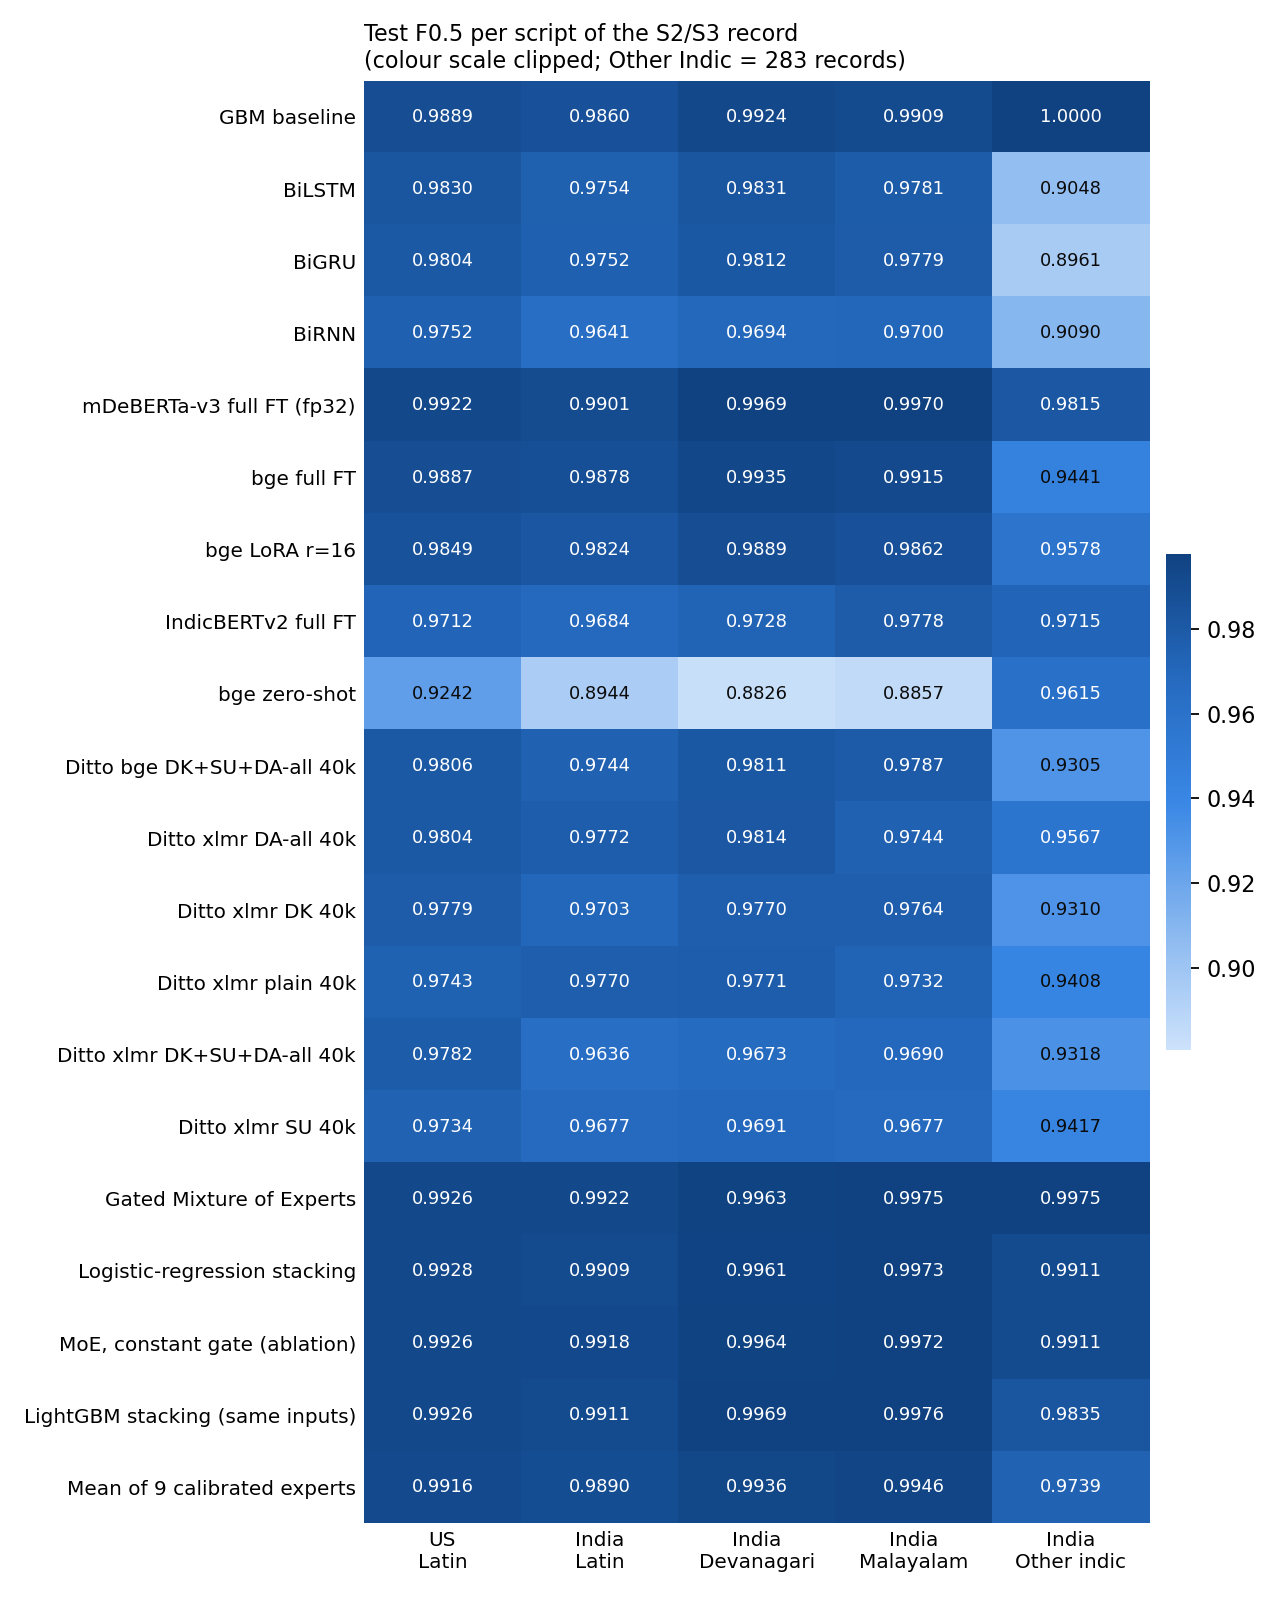
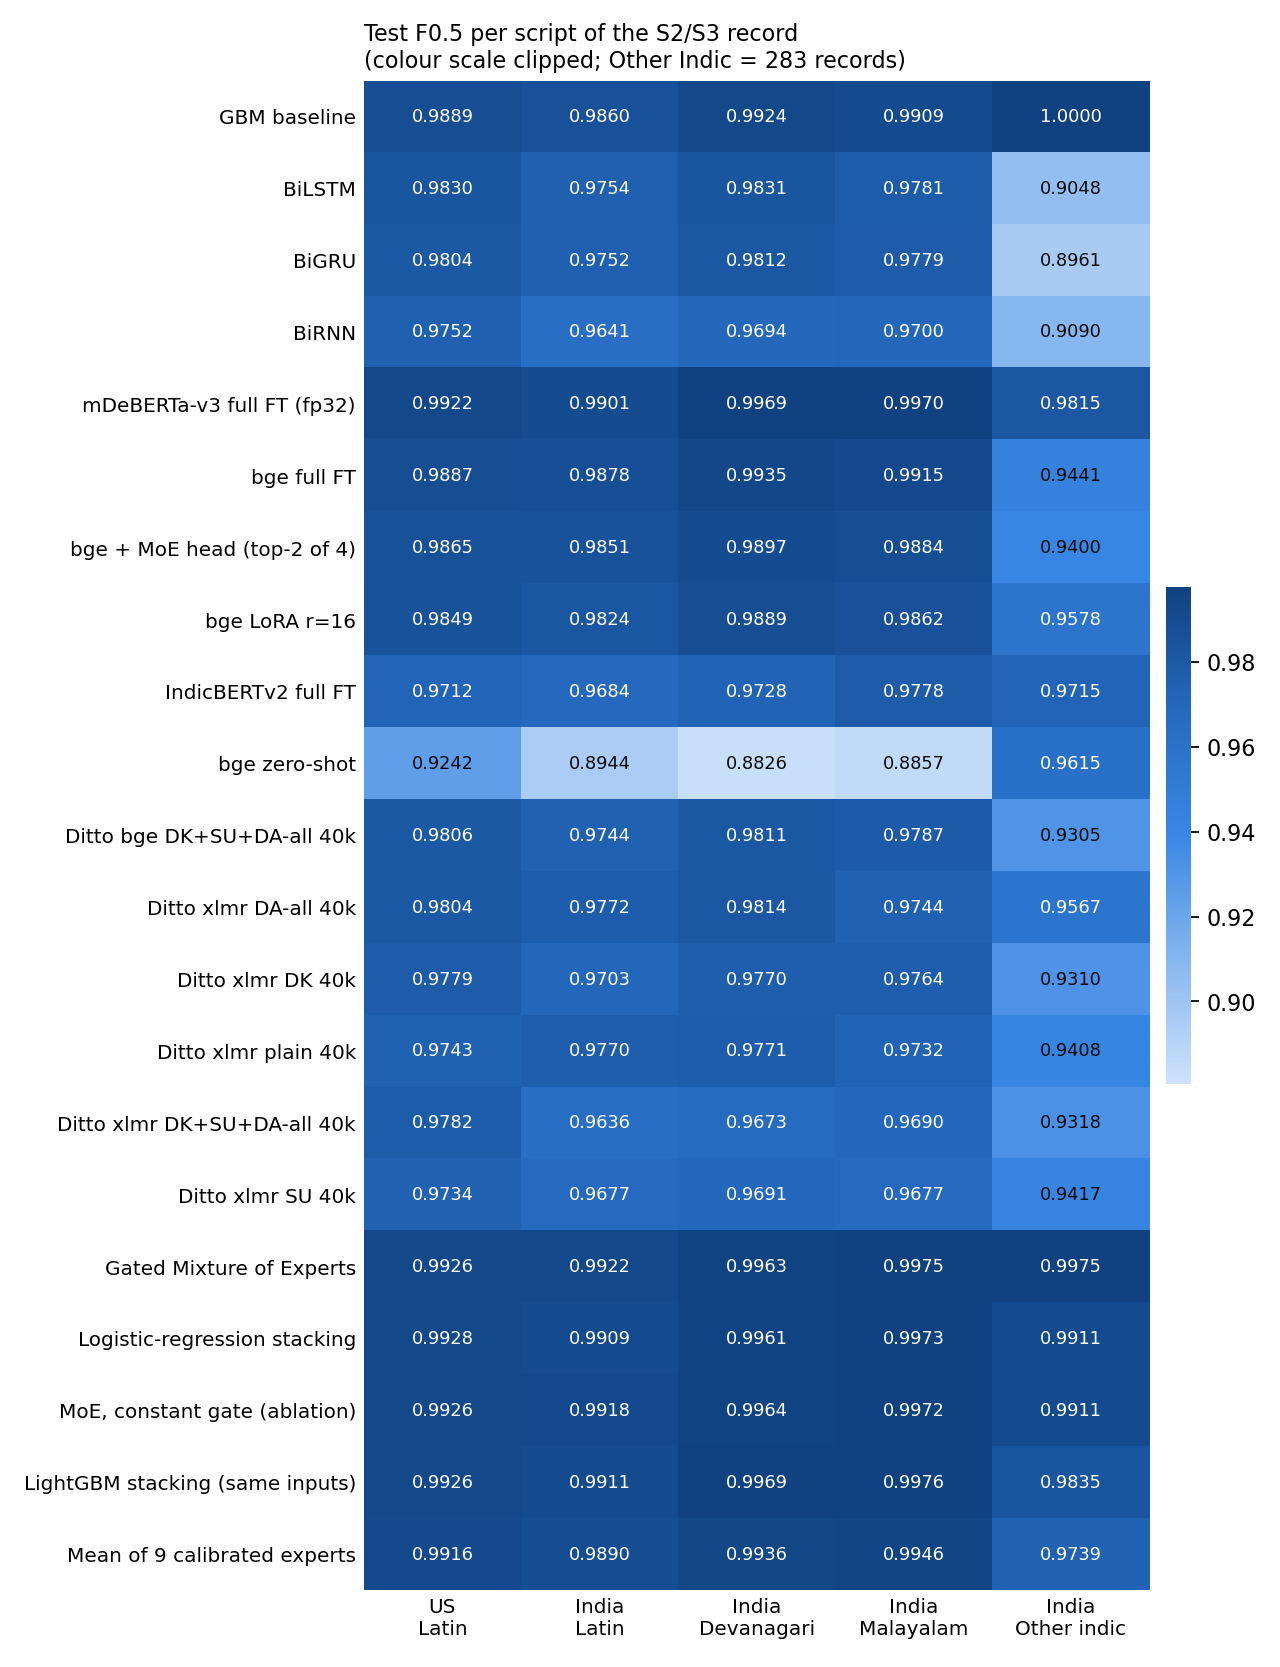
Per-script analysis: add 06d MoE head (all 21 matchers)

diff --git a/analysis/out_script/per_script_errors.md b/analysis/out_script/per_script_errors.md
@@ -30,6 +30,11 @@
 | bge full FT | India Devanagari | 7868 | 1 | 15 | 24 | 2 | 0.51 | 5703 | 2165 |
 | bge full FT | India Malayalam | 10371 | 5 | 21 | 28 | 2 | 0.52 | 7374 | 2997 |
 | bge full FT | India Other indic | 283 | 0 | 0 | 13 | 0 | 4.59 | 266 | 17 |
+| bge + MoE head (top-2 of 4) | US Latin | 48710 | 92 | 197 | 472 | 35 | 1.56 | 35788 | 12922 |
+| bge + MoE head (top-2 of 4) | India Latin | 34342 | 80 | 136 | 257 | 57 | 1.38 | 25488 | 8854 |
+| bge + MoE head (top-2 of 4) | India Devanagari | 7868 | 2 | 38 | 18 | 2 | 0.74 | 5703 | 2165 |
+| bge + MoE head (top-2 of 4) | India Malayalam | 10371 | 3 | 41 | 38 | 2 | 0.79 | 7374 | 2997 |
+| bge + MoE head (top-2 of 4) | India Other indic | 283 | 0 | 0 | 22 | 0 | 7.77 | 266 | 17 |
 | bge LoRA r=16 | US Latin | 48710 | 95 | 240 | 565 | 35 | 1.85 | 35788 | 12922 |
 | bge LoRA r=16 | India Latin | 34342 | 96 | 164 | 265 | 57 | 1.53 | 25488 | 8854 |
 | bge LoRA r=16 | India Devanagari | 7868 | 1 | 46 | 23 | 2 | 0.89 | 5703 | 2165 |

diff --git a/analysis/out_script/ranking_per_script.md b/analysis/out_script/ranking_per_script.md
@@ -8,6 +8,7 @@ AUC: pair-level ROC AUC of the test logits. top-1: share of linked records whose
 | BiRNN | 0.99917 | 0.995 | 0.99864 | 0.9924 | 0.99935 | 0.9981 | 0.99937 | 0.9966 | 0.99652 | 1.0 |
 | mDeBERTa-v3 full FT (fp32) | 0.99992 | 0.998 | 0.99993 | 0.9978 | 0.99999 | 0.9998 | 0.99998 | 0.9997 | 0.99988 | 1.0 |
 | bge full FT | 0.99981 | 0.9975 | 0.99983 | 0.9974 | 0.99996 | 0.9996 | 0.99996 | 0.9995 | 0.99607 | 0.9925 |
+| bge + MoE head (top-2 of 4) | 0.99977 | 0.9973 | 0.99976 | 0.9974 | 0.99989 | 0.9996 | 0.99992 | 0.9996 | 0.99818 | 1.0 |
 | bge LoRA r=16 | 0.99965 | 0.997 | 0.99967 | 0.9971 | 0.99989 | 0.9998 | 0.99988 | 0.9995 | 0.99947 | 1.0 |
 | IndicBERTv2 full FT | 0.99829 | 0.9867 | 0.99897 | 0.9886 | 0.99937 | 0.9968 | 0.99963 | 0.9961 | 0.99878 | 0.9962 |
 | bge zero-shot | 0.99378 | 0.9923 | 0.98752 | 0.9865 | 0.98685 | 0.9865 | 0.98973 | 0.9906 | 0.99583 | 0.9925 |

diff --git a/analysis/out_script/per_script_f05.md b/analysis/out_script/per_script_f05.md
@@ -6,6 +6,7 @@
 | BiRNN | 6 RNN / LSTM | 0.97475 | 0.97521 | 0.96409 | 0.96944 | 0.97 | 0.90901 |
 | mDeBERTa-v3 full FT (fp32) | 7 Transformers | 0.99402 | 0.99218 | 0.99014 | 0.99692 | 0.99699 | 0.98149 |
 | bge full FT | 7 Transformers | 0.99124 | 0.98874 | 0.98775 | 0.99352 | 0.99146 | 0.94412 |
+| bge + MoE head (top-2 of 4) | 7 Transformers | 0.98888 | 0.98646 | 0.98512 | 0.98965 | 0.98836 | 0.93997 |
 | bge LoRA r=16 | 7 Transformers | 0.98708 | 0.98485 | 0.9824 | 0.98886 | 0.98618 | 0.95782 |
 | IndicBERTv2 full FT | 7 Transformers | 0.97611 | 0.97118 | 0.96839 | 0.9728 | 0.97782 | 0.97153 |
 | bge zero-shot | 7 Transformers | 0.91674 | 0.92417 | 0.8944 | 0.8826 | 0.88574 | 0.96146 |
